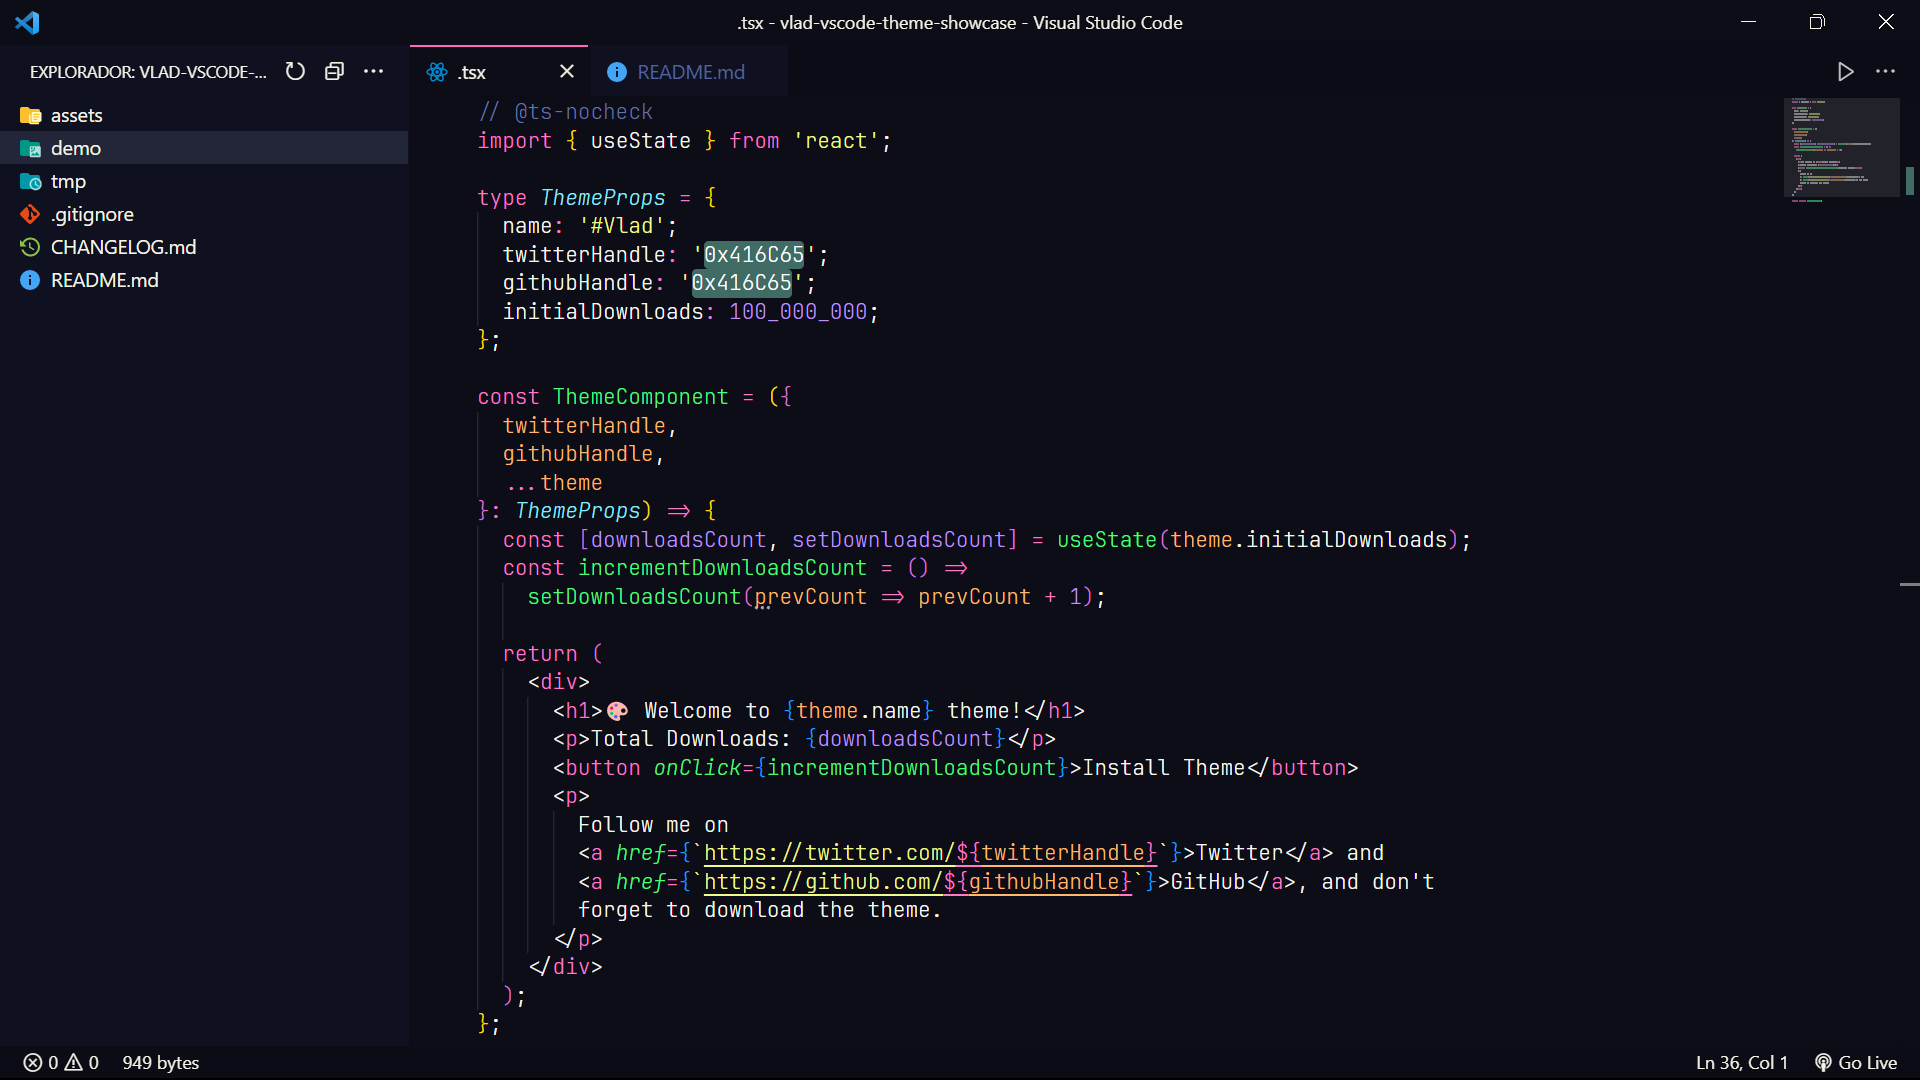
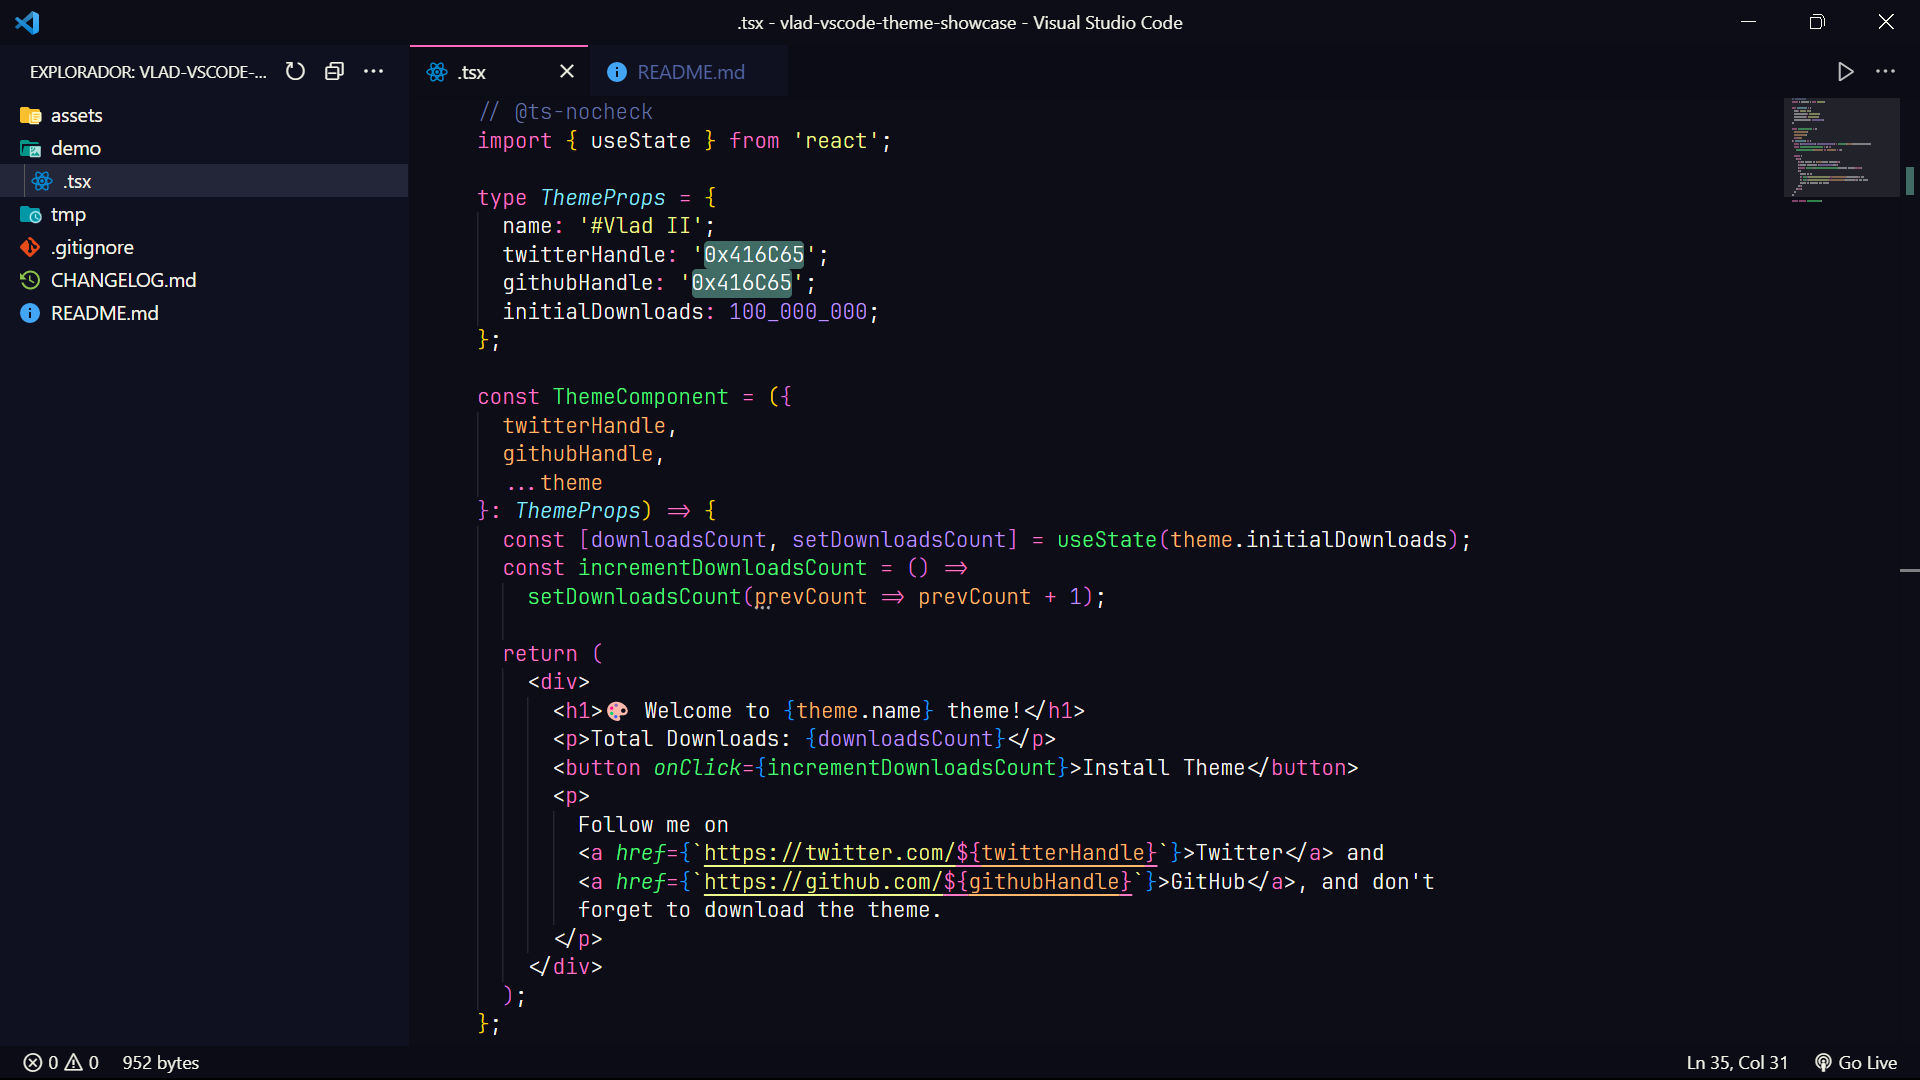
v1.1.0

Changed region(s): [[0.0, 0.1222, 0.2188, 0.3056], [0.875, 0.9778, 0.9375, 1.0], [0.0625, 0.9778, 0.0938, 1.0]]

diff --git a/demo/.tsx b/demo/.tsx
@@ -2,7 +2,7 @@
 import { useState } from 'react';
 
 type ThemeProps = {
-  name: '#Vlad';
+  name: '#Vlad III';
   twitterHandle: '0x416C65';
   githubHandle: '0x416C65';
   initialDownloads: 100_000_000;

diff --git a/CHANGELOG.md b/CHANGELOG.md
@@ -3,6 +3,17 @@
 All notable changes to this project will be documented in this file.
 The format is based on [Keep a Changelog](https://keepachangelog.com/en/1.0.0/).
 
+## [1.1.0] - 2023-06-26
+
+### Changed
+
+- Decreased saturation of tokensColors in accordance with the increase in theme variation (I, II, III...)
+
+### Fixed
+
+- React component props that were destructured and renamed were previously colored incorrectly, but have been fixed to be white as they should be.
+- The colors for both export readwrite and import readwrite were incorrect and have been corrected to be white.
+
 ## [1.0.3] - 2023-06-26
 
 ### Fixed
